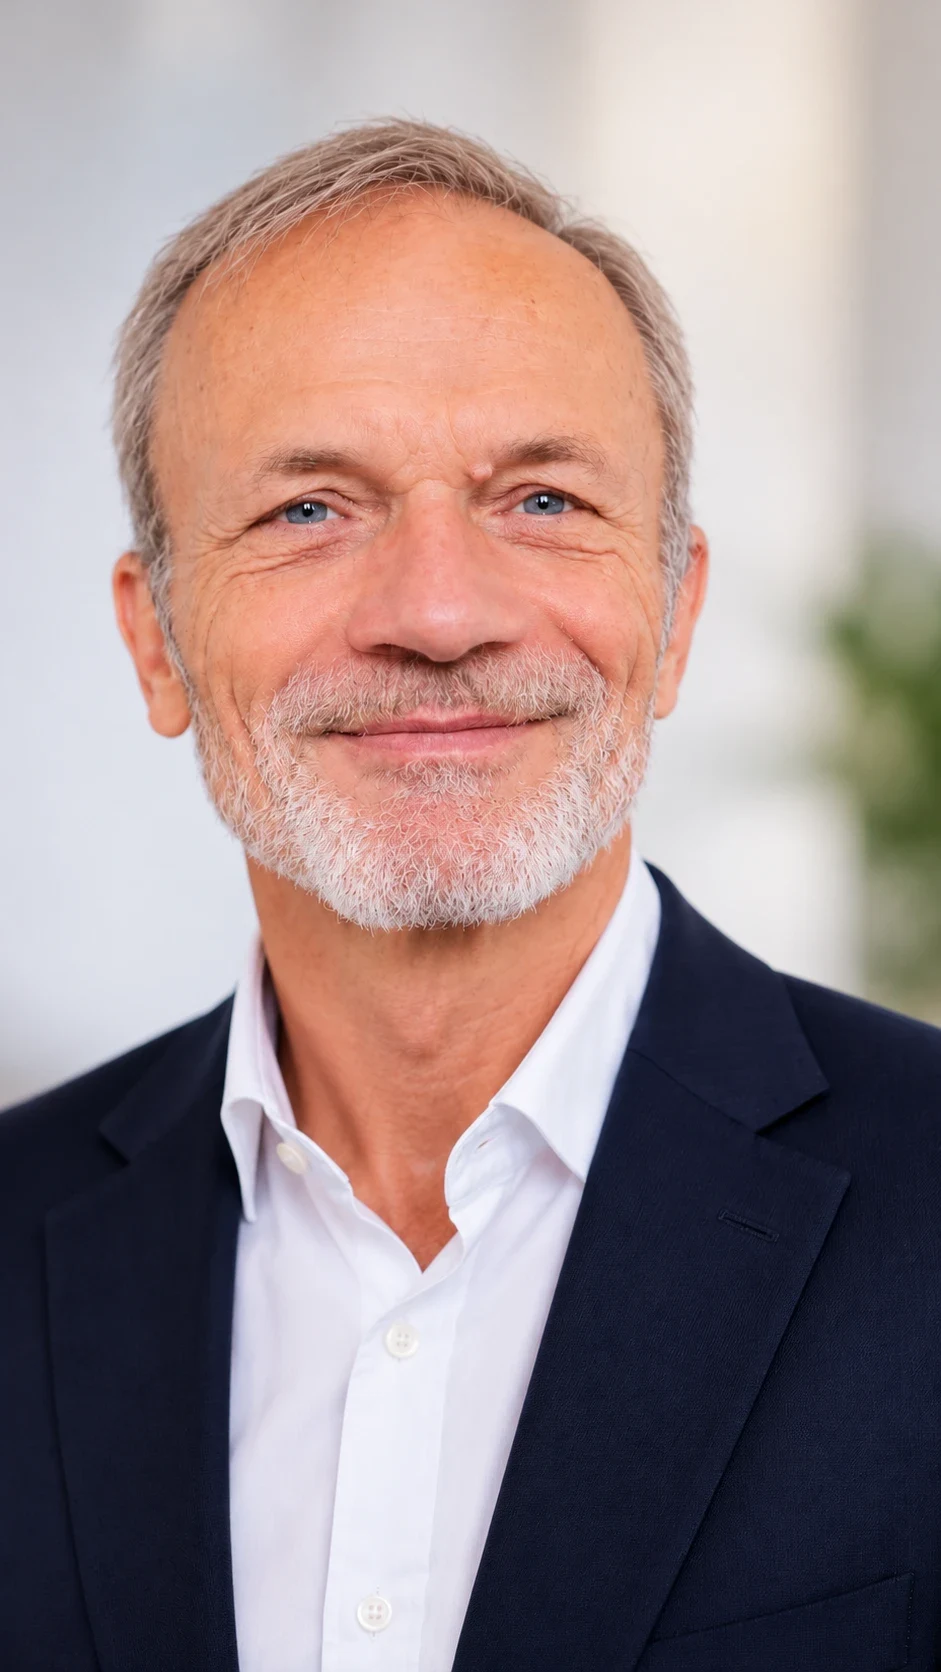
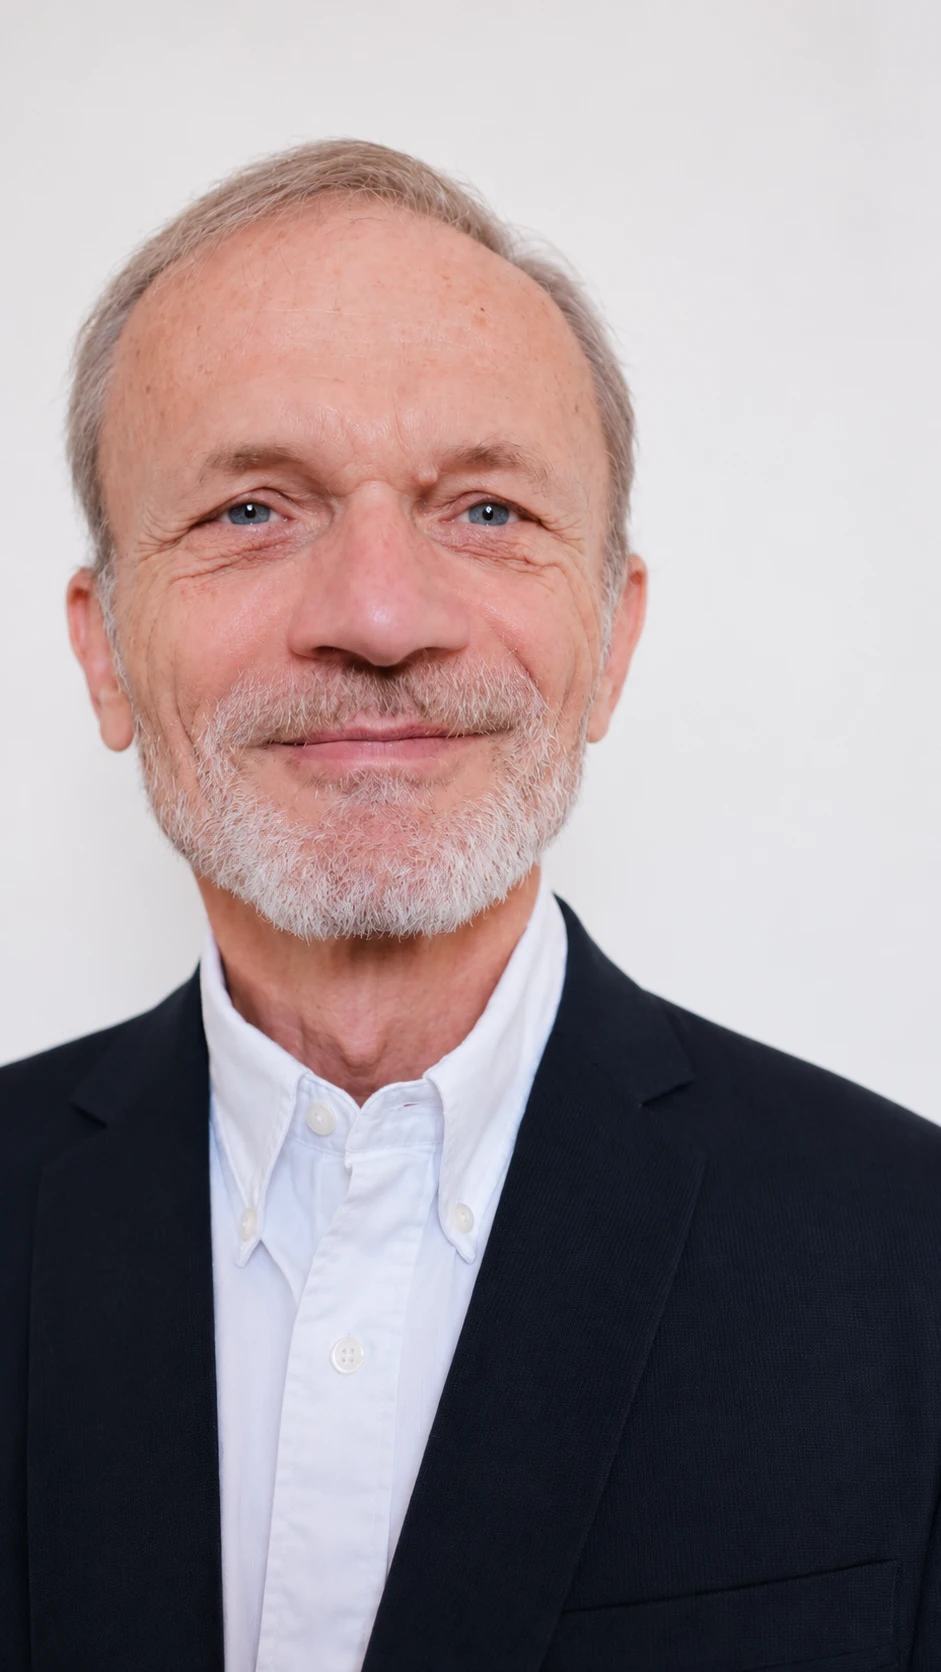
J39 : finitions tarif (chêne, noyer, hêtre), J39 assise garnie, nouvelle photo À propos

diff --git a/Scanideal v2.dc.html b/Scanideal v2.dc.html
@@ -1066,7 +1066,8 @@ class Component extends DCLogic {
       { id: 'spanish-chair', brand: 'fredericia', name: 'The Spanish Chair', designer: 'Børge Mogensen, 1958', cat: 'Fauteuils', img: I.ff_spanish_chair, finishes: ['Chêne huilé clair · cuir cognac', 'Chêne savonné · cuir naturel', 'Chêne huilé fumé · cuir noir'], dims: 'L 82,5 × P 60 × H 67 cm · Assise H 33 cm', mat: 'Structure en chêne massif (ou noyer), cuir sellier épais, sangles réglables. Bois : chêne savonné, huilé, huilé clair, laqué noir, huilé fumé, ou noyer. Fabriqué au Danemark.', desc: 'Présenté en 1958, ce fauteuil de Børge Mogensen s\'inspire d\'un siège espagnol à larges accoudoirs. Les sangles se resserrent à mesure que le cuir se détend : il se patine et dure.', feat: true },
       { id: 'pon-table', brand: 'fredericia', name: 'Pon Table', designer: 'Jasper Morrison', cat: 'Tables basses', img: I.ff_pon_table, fimg: { 'Chêne huilé': 'assets/fredericia/fin/pon-table-chene-huile.webp', 'Chêne savonné': 'assets/fredericia/fin/pon-table-chene-savonne.webp', 'Chêne huilé clair': 'assets/fredericia/fin/pon-table-chene-huile-clair.webp', 'Chêne fumé huilé': 'assets/fredericia/fin/pon-table-chene-fume-huile.webp', 'Chêne laqué': 'assets/fredericia/fin/pon-table-chene-laque.webp', 'Chêne laqué noir': 'assets/fredericia/fin/pon-table-chene-laque-noir.webp' }, finishes: ['Chêne huilé', 'Chêne savonné', 'Chêne huilé clair', 'Chêne fumé huilé', 'Chêne laqué', 'Chêne laqué noir'], dims: 'Ø 35, 40 ou 45 cm (H 36 à 46 cm) · Ø 90 cm (H 38 cm)', mat: 'Chêne massif (FSC Mix 70 %) : huilé, savonné, huilé clair, fumé huilé, laqué ou laqué noir. Fabriquée au Danemark.', desc: 'Une famille de tables rondes en chêne massif, en quatre diamètres : tables d\'appoint ou table basse, seules ou groupées.' },
       { id: 'pioneer-stool', brand: 'fredericia', name: 'Pioneer Stool', designer: 'Maria Bruun, 2023', cat: 'Tabourets', img: I.ff_pioneer_stool, fimg: { 'Chêne laqué': 'assets/fredericia/pioneer-stool-chene-laque.webp' }, finishes: ['Chêne laqué', 'Chêne fumé teinté', 'Hêtre laqué noir'], dims: 'H 46 cm ou H 67 / 77 cm', mat: 'Bois massif, assise garnie en tissu au choix. Fabriqué au Danemark.', desc: 'Un tabouret en bois massif à l\'assise garnie, en hauteur table basse ou comptoir.' },
-      { id: 'j39', brand: 'fredericia', name: 'J39 Mogensen Chair', designer: 'Børge Mogensen, 1947', cat: 'Chaises', img: I.ff_j39, finishes: ['Chêne savonné · cordage naturel', 'Chêne huilé · cordage naturel', 'Noyer huilé · cordage naturel', 'Hêtre laqué noir · cordage naturel'], dims: 'L 49 × P 44 × H 78 cm · Assise H 46 cm', mat: 'Bois massif (chêne, noyer ou hêtre, FSC Mix 70 %), assise en cordage papier tressé ; version assise garnie disponible. Fabriquée en Lettonie.', desc: 'Dessinée par Børge Mogensen en 1947, cette chaise a fêté ses 75 ans : une silhouette légère, un assemblage précis et une assise en cordage tressé.' },
+      { id: 'j39', brand: 'fredericia', name: 'J39 Mogensen Chair', designer: 'Børge Mogensen, 1947', cat: 'Chaises', img: I.ff_j39, fimg: { 'Chêne savonné · cordage naturel': 'assets/fredericia/fin/j39-chene-savonne.webp', 'Chêne huilé · cordage naturel': 'assets/fredericia/fin/j39-chene-huile.webp', 'Chêne huilé clair · cordage naturel': 'assets/fredericia/fin/j39-chene-huile-clair.webp', 'Chêne laqué noir · cordage noir': 'assets/fredericia/fin/j39-chene-laque-noir.webp', 'Noyer huilé · cordage naturel': 'assets/fredericia/fin/j39-noyer-huile.webp', 'Hêtre savonné · cordage naturel': 'assets/fredericia/fin/j39-hetre-savonne.webp', 'Hêtre blanc · cordage naturel': 'assets/fredericia/fin/j39-hetre-blanc.webp', 'Hêtre laqué noir · cordage naturel': 'assets/fredericia/fin/j39-hetre-laque-noir.webp', 'Hêtre laqué vintage · cordage naturel': 'assets/fredericia/fin/j39-hetre-vintage.webp', 'Hêtre vert kaki · cordage naturel': 'assets/fredericia/fin/j39-hetre-kaki.webp', 'Hêtre bleu indigo · cordage naturel': 'assets/fredericia/fin/j39-hetre-indigo.webp', 'Hêtre rouge Heritage · cordage naturel': 'assets/fredericia/fin/j39-hetre-heritage.webp', 'Hêtre gris galet · cordage naturel': 'assets/fredericia/fin/j39-hetre-galet.webp' }, finishes: ['Chêne savonné · cordage naturel', 'Chêne huilé · cordage naturel', 'Chêne huilé clair · cordage naturel', 'Chêne laqué noir · cordage noir', 'Noyer huilé · cordage naturel', 'Hêtre savonné · cordage naturel', 'Hêtre blanc · cordage naturel', 'Hêtre laqué noir · cordage naturel', 'Hêtre laqué vintage · cordage naturel', 'Hêtre vert kaki · cordage naturel', 'Hêtre bleu indigo · cordage naturel', 'Hêtre rouge Heritage · cordage naturel', 'Hêtre gris galet · cordage naturel'], dims: 'L 49 × P 44 × H 78 cm · Assise H 46 cm', mat: 'Bois massif (FSC Mix 70 %) : chêne savonné, huilé, huilé clair ou laqué noir (cordage noir), noyer huilé, hêtre savonné ou laqué (noir, blanc, vintage, vert kaki, bleu indigo, rouge Heritage, gris galet) ; assise en cordage papier tressé naturel ; version assise garnie disponible. Fabriquée en Lettonie.', desc: 'Dessinée par Børge Mogensen en 1947, cette chaise a fêté ses 75 ans : une silhouette légère, un assemblage précis et une assise en cordage tressé.' },
+      { id: 'j39-upholstered', brand: 'fredericia', name: 'J39 Mogensen Chair, assise garnie', designer: 'Børge Mogensen, 1969', cat: 'Chaises', img: 'assets/fredericia/j39-up-2.webp', extra: ['assets/fredericia/j39-up-6.webp'], fimg: { 'Chêne savonné · toile noire': 'assets/fredericia/j39-up-1.webp', 'Chêne savonné · toile naturelle': 'assets/fredericia/j39-up-2.webp', 'Hêtre laqué noir · toile noire': 'assets/fredericia/j39-up-3.webp', 'Hêtre bleu indigo · toile naturelle': 'assets/fredericia/j39-up-4.webp', 'Hêtre vert kaki · toile naturelle': 'assets/fredericia/j39-up-5.webp' }, finishes: ['Chêne savonné · toile naturelle', 'Chêne savonné · toile noire', 'Hêtre laqué noir · toile noire', 'Hêtre bleu indigo · toile naturelle', 'Hêtre vert kaki · toile naturelle'], dims: 'L 49 × P 44 × H 78 cm · Assise H 46 cm', mat: 'Bois massif (FSC Mix 70 %) : chêne savonné, huilé, huilé clair ou laqué noir, noyer huilé, hêtre savonné ou laqué (noir, blanc, vintage, vert kaki, bleu indigo, rouge Heritage, gris galet). Assise sur sangles, housse amovible à fermeture éclair en toile (noire ou naturelle), cuir Omni (noir 301, cognac 307, brun foncé 377) ou tissu Hallingdal. Fabriquée en Lettonie.', desc: 'La variante à assise garnie de la J39, dessinée par Børge Mogensen en 1969 : la même silhouette légère, avec une assise rembourrée et une housse amovible.' },
       { id: 'spanish-dining', brand: 'fredericia', name: 'The Spanish Dining Chair', designer: 'Børge Mogensen', cat: 'Chaises', img: I.ff_spanish_dining, finishes: ['Chêne savonné · cuir cognac', 'Chêne huilé · cuir cognac', 'Chêne laqué noir · cuir noir'], dims: 'Chaise L 56 × P 48 × H 84,5 cm · Fauteuil L 64,5 cm · Assise H 46 cm', mat: 'Chêne massif, assise et dossier en cuir sellier. Existe en chaise et en fauteuil. Fabriquée en Lettonie.', desc: 'La version salle à manger de la Spanish Chair de Børge Mogensen, en chaise ou fauteuil, avec le même cuir tendu.' },
       { id: 'hunting-chair', extra: ['assets/fredericia/amb-hunting-chair.webp'], brand: 'fredericia', name: 'The Hunting Chair', designer: 'Børge Mogensen', cat: 'Fauteuils', img: I.ff_hunting_chair, finishes: ['Chêne savonné · cuir naturel', 'Chêne huilé · cuir cognac', 'Chêne huilé clair · cuir noir'], dims: 'L 70,5 × P 87 × H 67 cm · Assise H 28 cm', mat: 'Chêne massif, cuir sellier. Fabriqué au Danemark.', desc: 'Un fauteuil bas de Børge Mogensen, à l\'assise profonde et au cuir épais qui se patine avec les années.' },
       { id: 'ox-chair', brand: 'fredericia', name: 'Wegner Ox Chair', designer: 'Hans J. Wegner', cat: 'Fauteuils', img: I.ff_ox_chair, finishes: ['Tissu Vidar brun foncé, passepoil cuir · inox brossé', 'Cuir cognac · inox brossé', 'Cuir noir · inox brossé'], dims: 'L 99 × P 99 × H 92 cm · Assise H 36 cm', mat: 'Structure en acier (inox brossé ou noir), revêtement cuir ou tissu au choix. Fabriqué au Danemark.', desc: 'Le fauteuil lounge de Hans J. Wegner, aux larges volumes et aux oreilles enveloppantes, disponible avec ottoman.' },
@@ -1421,7 +1422,7 @@ class Component extends DCLogic {
     const cut = img => this.D.CUT.includes(img) || /^assets\/(fredericia|savir|naver|rye|cph|loca)\/(?!amb-)/.test(img || '');
     const pc = p => ({ ...p, img: p.img || null, designerName: dKey(p.designer), noImg: !p.img, pos: p.pos || 'center', eco: !!p.eco, ecoOn: !!p.eco, amb: !!p.amb, cls: cut(p.img) ? 'cut' : '', size: p.size || (cut(p.img) ? 'contain' : 'cover'), brandName: bName(p.brand), open: () => this.go('product', p.id), quickAdd: () => this.addSel(p.id, p.finishes[0], 1) });
     const STUDIOS = ['Savir Design', 'Erik Jørgensen', 'Nanna Ditzel & Jørgen Ditzel', 'Nissen & Gehl MDD', 'Space Copenhagen', 'Harrit & Sørensen', 'Foersom & Hiort-Lorenzen', 'Barber & Osgerby', 'Due & Trampedach', 'Ernst & Jensen', 'Welling/Ludvik', 'Gramrode', 'Oeo', 'Nikolaj Lorentz Mentze (Studio 0405)', 'Oliver & Lukas Weisskrogh', 'Alexander & Oliver Brunsø', 'Rye', 'Tadaima', 'Gehl & Møller', 'GM Design'];
-    const YEARS = {'plan-studio-3452': 2026, 'plan-studio-3453': 2026, 'plan-studio-3454': 2026, 'plan-studio-3458': 2026, 'plan-column-6624': 2022, 'plan-column-6627': 2022, 'plan-column-6629': 2022, 'plan-table-mod-a': 2022, 'plan-table-mod-b': 2022, 'plan-table-mod-c': 2022, 'plan-table-mod-d': 2022, 'plan-table-mod-e': 2022, 'plan-table-mod-m': 2022, 'mk16-folding': 1933, 'spanish-chair': 1958, 'pon-table': 2016, 'pioneer-stool': 2023, 'j39': 1947, 'spanish-dining': 1964, 'hunting-chair': 1950, 'ox-chair': 1960, 'pato-4-leg': 2025, 'ox-table': 1960, 'islets-dining': 2020, 'bm61-62': 1958, 'eyes': 2007, 'eyes-barstool': 2007, 'eyes-lounge': 2011, 'flamingo': 2003, 'gomo-armchair': 2025, 'klint': 1936, 'lynderup': 1954, 'mogensen-bench': 1956, 'pato-4-leg-std': 2013, 'pato-swivel': 2014, 'pato-executive': 2015, 'pato-stools': 2016, 'pato-lounge': 2016, 'plan-chair': 2022, 'plan-wood': 2025, 'plan-barstool': 2023, 'plan-table': 2022, 'post-armchair': 2019, 'post-lounge': 2026, 'post-table': 2019, 'soborg': 1950, 'spine-wood': 2014, 'spine-lounge': 2016, 'spine-sofa': 2011, 'swoon-dining': 2019, 'swoon-lounge': 2019, 'swoon-ottoman': 2018, 'trinidad': 1993, 'trinidad-barstool': 1998, 'trisse-stool': 1962, 'trisse-tables': 1962, 'nd09': 1963, 'a-chair': 1961, 'bench-for-two': 1989, 'canvas': 1968, 'canvas-21': 1968, 'corona': 1964, 'corona-ottoman': 1964, 'nd83-lounge': 1952, 'nd82-sofa': 1952, 'nd93-desk': 1955, 'ditzel-lounge': 1953, 'jota-lounge': 2024, 'mogensen-wing': 1963, 'mogensen-ottoman': 1963, 'savannah-club': 2015, 'spoke-back-1788': 1974, 'j16': 1944, 'j16-stool': 1950, 'queen': 1960, 'ox-ottoman': 1960, 'bm-2208-2209': 1963, 'bm-2212-2213': 1962, 'bm-coupe': 1971, 'calmo-sofa': 2019, 'calmo-ottoman': 2019, 'delphi': 2007, 'ej220': 1970, 'ej280': 2010, 'ej315': 1975, 'gomo-lounge': 2023, 'gomo-sofa': 2023, 'jota-sofa': 2025, 'konami': 2019, 'no1-sofa': 1955, 'savannah-sofa': 2015, 'spoke-back-1789': 1945, 'bm29': 1956, 'bm67': 1956, 'bm80': 1961, 'c18': 1947, 'bm375': 1962, 'jg-table': 1984, 'jg-coffee': 1962, 'jg-stool': 1970, 'insula': 2014, 'piloti': 2016, 'pal': 2020, 'islets-low': 2020, 'niveau': 2023, 'tableau': 2018, 'magazine': 1949, 'gallery-stool': 1998, 'seto': 2023, 'mono': 2020, 'sequoia': 2020, 'vases': 2025, 'grid': 2025, 'mirror': 2020};
+    const YEARS = {'plan-studio-3452': 2026, 'plan-studio-3453': 2026, 'plan-studio-3454': 2026, 'plan-studio-3458': 2026, 'plan-column-6624': 2022, 'plan-column-6627': 2022, 'plan-column-6629': 2022, 'plan-table-mod-a': 2022, 'plan-table-mod-b': 2022, 'plan-table-mod-c': 2022, 'plan-table-mod-d': 2022, 'plan-table-mod-e': 2022, 'plan-table-mod-m': 2022, 'mk16-folding': 1933, 'spanish-chair': 1958, 'pon-table': 2016, 'pioneer-stool': 2023, 'j39': 1947, 'j39-upholstered': 1969, 'spanish-dining': 1964, 'hunting-chair': 1950, 'ox-chair': 1960, 'pato-4-leg': 2025, 'ox-table': 1960, 'islets-dining': 2020, 'bm61-62': 1958, 'eyes': 2007, 'eyes-barstool': 2007, 'eyes-lounge': 2011, 'flamingo': 2003, 'gomo-armchair': 2025, 'klint': 1936, 'lynderup': 1954, 'mogensen-bench': 1956, 'pato-4-leg-std': 2013, 'pato-swivel': 2014, 'pato-executive': 2015, 'pato-stools': 2016, 'pato-lounge': 2016, 'plan-chair': 2022, 'plan-wood': 2025, 'plan-barstool': 2023, 'plan-table': 2022, 'post-armchair': 2019, 'post-lounge': 2026, 'post-table': 2019, 'soborg': 1950, 'spine-wood': 2014, 'spine-lounge': 2016, 'spine-sofa': 2011, 'swoon-dining': 2019, 'swoon-lounge': 2019, 'swoon-ottoman': 2018, 'trinidad': 1993, 'trinidad-barstool': 1998, 'trisse-stool': 1962, 'trisse-tables': 1962, 'nd09': 1963, 'a-chair': 1961, 'bench-for-two': 1989, 'canvas': 1968, 'canvas-21': 1968, 'corona': 1964, 'corona-ottoman': 1964, 'nd83-lounge': 1952, 'nd82-sofa': 1952, 'nd93-desk': 1955, 'ditzel-lounge': 1953, 'jota-lounge': 2024, 'mogensen-wing': 1963, 'mogensen-ottoman': 1963, 'savannah-club': 2015, 'spoke-back-1788': 1974, 'j16': 1944, 'j16-stool': 1950, 'queen': 1960, 'ox-ottoman': 1960, 'bm-2208-2209': 1963, 'bm-2212-2213': 1962, 'bm-coupe': 1971, 'calmo-sofa': 2019, 'calmo-ottoman': 2019, 'delphi': 2007, 'ej220': 1970, 'ej280': 2010, 'ej315': 1975, 'gomo-lounge': 2023, 'gomo-sofa': 2023, 'jota-sofa': 2025, 'konami': 2019, 'no1-sofa': 1955, 'savannah-sofa': 2015, 'spoke-back-1789': 1945, 'bm29': 1956, 'bm67': 1956, 'bm80': 1961, 'c18': 1947, 'bm375': 1962, 'jg-table': 1984, 'jg-coffee': 1962, 'jg-stool': 1970, 'insula': 2014, 'piloti': 2016, 'pal': 2020, 'islets-low': 2020, 'niveau': 2023, 'tableau': 2018, 'magazine': 1949, 'gallery-stool': 1998, 'seto': 2023, 'mono': 2020, 'sequoia': 2020, 'vases': 2025, 'grid': 2025, 'mirror': 2020};
     const LIFE = { 'Børge Mogensen': '1914–1972', 'Hans J. Wegner': '1914–2007', 'Nanna Ditzel': '1923–2005', 'Kaare Klint': '1888–1954', 'Jørgen Gammelgaard': '1938–1991', 'Damian Williamson': '1974–2024', 'Jens Risom': '1916–2016', 'Hannes Wettstein': '1958–2008', 'Poul M. Volther': '1923–2001', 'Jasper Morrison': 'né en 1959', 'Cecilie Manz': 'née en 1972', 'Monica Förster': 'née en 1966' };
     const PHOTO = {'Børge Mogensen': 'assets/designers/borge-mogensen.webp', 'Cecilie Manz': 'assets/designers/cecilie-manz.webp', 'Damian Williamson': 'assets/designers/damian-williamson.webp', 'Kaare Klint': 'assets/designers/kaare-klint.webp', 'Barber & Osgerby': 'assets/designers/edward-barber-jay-osgerby.webp', 'Foersom & Hiort-Lorenzen': 'assets/designers/foersom-hiort-lorenzen.webp', 'Hannes Wettstein': 'assets/designers/hannes-wettstein.webp', 'Hans J. Wegner': 'assets/designers/hans-j-wegner.webp', 'Hugo Passos': 'assets/designers/hugo-passos.webp', 'Jasper Morrison': 'assets/designers/jasper-morrison.webp', 'Jens Risom': 'assets/designers/jens-risom.webp', 'Jørgen Gammelgaard': 'assets/designers/jorgen-gammelgaard.webp', 'Keiji Takeuchi': 'assets/designers/keiji-takeuchi.webp', 'Maria Bruun': 'assets/designers/maria-bruun.webp', 'Monica Förster': 'assets/designers/monica-forster.webp', 'Poul M. Volther': 'assets/designers/poul-m-volther.webp', 'Space Copenhagen': 'assets/designers/space-copenhagen.webp', 'Nanna Ditzel': 'assets/designers/nanna-ditzel.webp', 'Welling/Ludvik': 'assets/designers/welling-ludvik.webp', 'Tadaima': 'assets/designers/tadaima.webp', 'Martina Branchetti': 'assets/designers/martina-branchetti.webp', 'Susanne Grønlund': 'assets/designers/susanne-gronlund.webp', 'Hans Sandgren Jakobsen': 'assets/designers/hans-sandgren-jakobsen.webp', 'Erik Ole Jørgensen': 'assets/designers/erik-ole-jorgensen.webp', 'Thomas Pedersen': 'assets/designers/thomas-pedersen.webp', 'Lars Vejen': 'assets/designers/lars-vejen.webp', 'Henrik Lehm': 'assets/designers/henrik-lehm.webp', 'Guglielmo Berchicci': 'assets/designers/guglielmo-berchicci.webp', 'Tom Stepp': 'assets/designers/tom-stepp.webp', 'Mogens Koch': 'assets/designers/mogens-koch.webp', 'Morten Flensted': 'assets/designers/morten-flensted.webp', 'Alexander & Oliver Brunsø': 'assets/designers/alexander-oliver-brunso.webp', 'Due & Trampedach': 'assets/designers/due-trampedach.webp', 'Erik Jørgensen': 'assets/designers/erik-jorgensen.webp', 'Ernst & Jensen': 'assets/designers/ernst-jensen.webp', 'Gehl & Møller': 'assets/designers/gehl-moller.webp', 'Nissen & Gehl MDD': 'assets/designers/nissen-gehl.webp', 'Harrit & Sørensen': 'assets/designers/harrit-sorensen.webp', 'Nanna Ditzel & Jørgen Ditzel': 'assets/designers/nanna-jorgen-ditzel.webp', 'Nikolaj Lorentz Mentze (Studio 0405)': 'assets/designers/nikolaj-mentze.webp', 'Oeo': 'assets/designers/oeo.webp', 'Rye': 'assets/designers/rye.webp', 'Oliver & Lukas Weisskrogh': 'assets/designers/oliver-lukas-weisskrogh.webp'};
     const dKey = n => { n = (n || '').replace(/,\s*\d{4}$/, '').trim(); const al = { 'Erik Jørgensen Studio': 'Erik Jørgensen', 'Cph Lighting': '' }; return n in al ? al[n] : n; };
